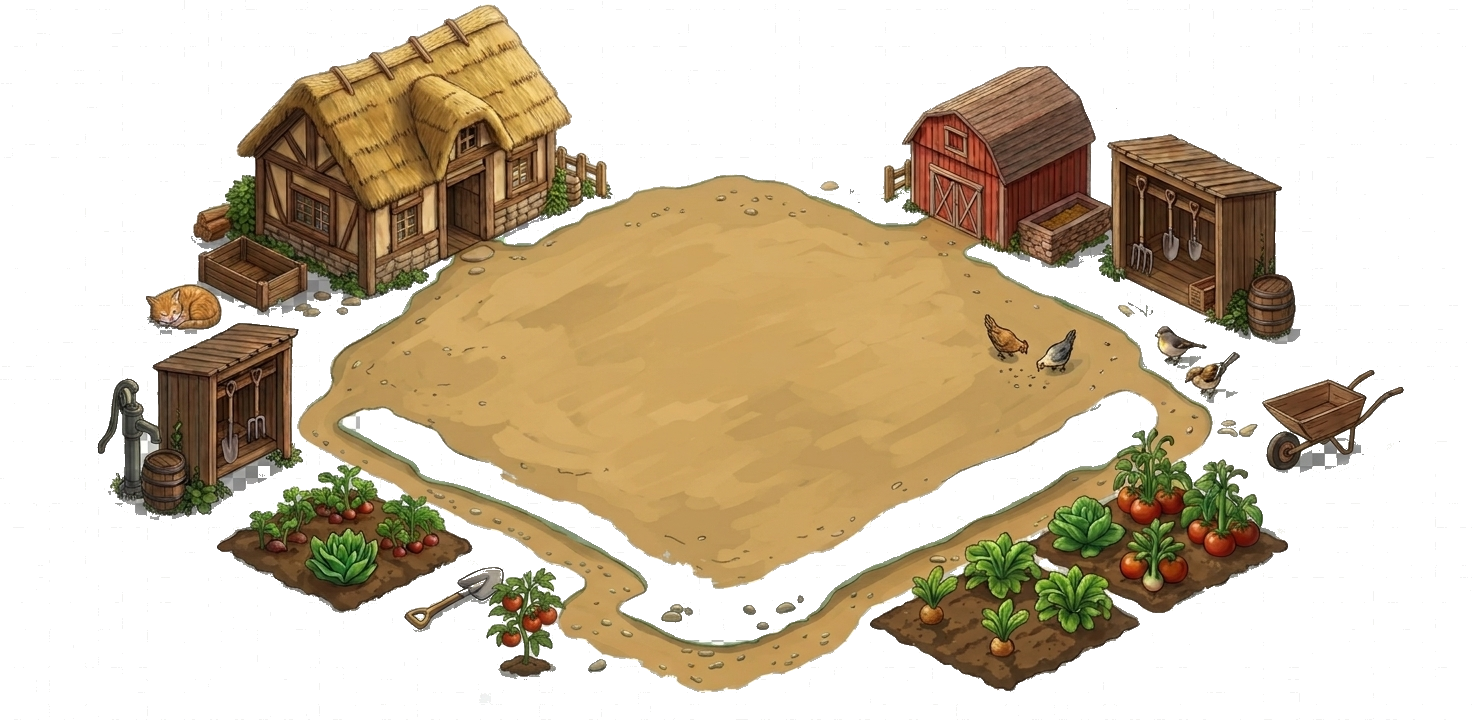
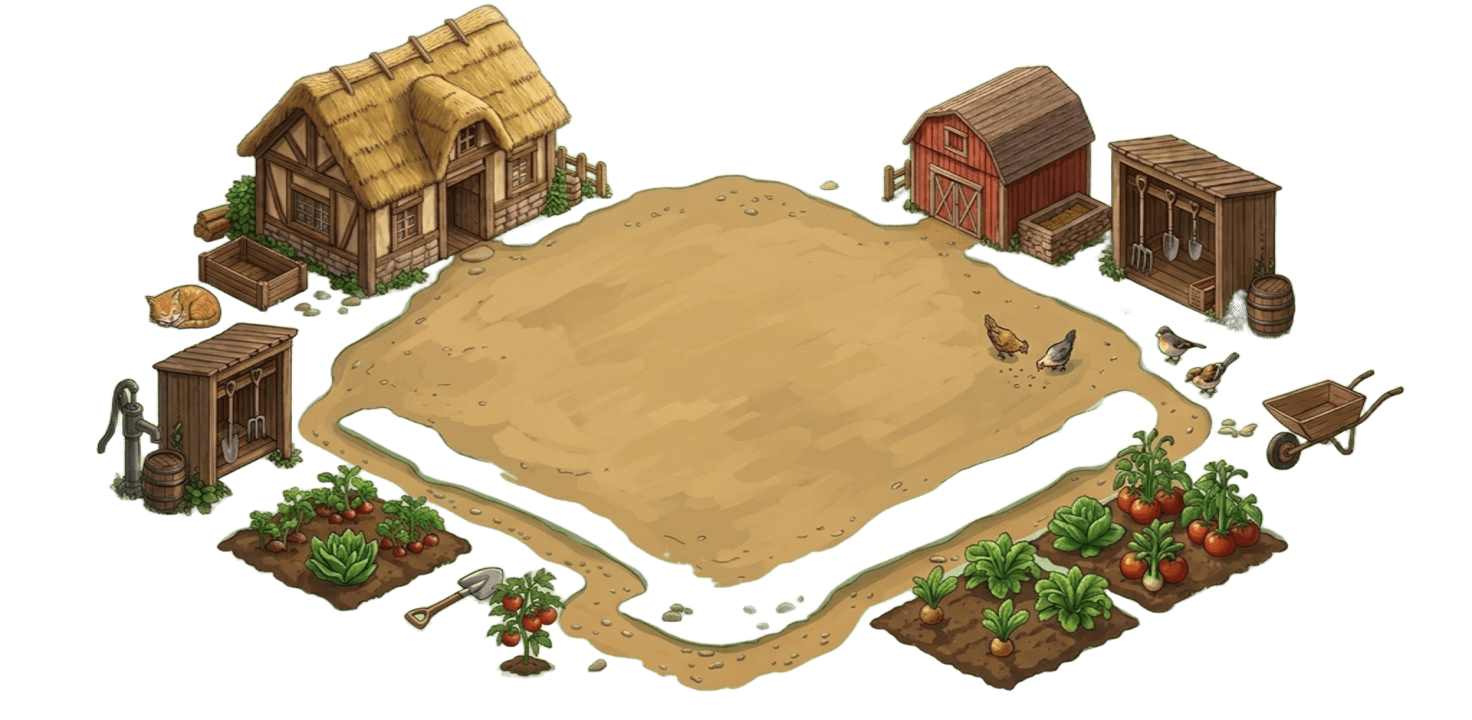
畑の周り画像をきれいな透過版に差し替え、畑を中央配置・拡大、背景色を変更
- 新しい透過 PNG（よりきれいに切り抜かれたもの）に差し替え
- 畑の盤面を砂地の中心に合わせ直し、下へのずれを解消
- 盤面と全体のシーンを拡大（レイアウト比率と高さ上限を調整）
- サイト全体の背景色 --bed を #BAC79D に変更

diff --git a/front-end/src/components/VegetableField.css b/front-end/src/components/VegetableField.css
@@ -37,7 +37,7 @@
 
 .field-scene {
   position: relative;
-  width: min(100%, calc(76vh * 1472 / 720));
+  width: min(100%, calc(80vh * 1472 / 720));
   aspect-ratio: 1472 / 720;
   margin: 0 auto;
   background: url("/VegeTASK_畑の周り.png") center / 100% 100% no-repeat;
@@ -45,9 +45,9 @@
 
 .field-board {
   position: absolute;
-  left: 25.5%;
-  top: 13%;
-  width: 52%;
+  left: 24%;
+  top: 11.5%;
+  width: 53.5%;
   aspect-ratio: 9 / 8;
   background-image: url("/VegeTASK_畑.png");
   background-size: contain;

diff --git a/front-end/src/pages/Home.css b/front-end/src/pages/Home.css
@@ -11,12 +11,12 @@
   gap: clamp(16px, 3vw, 40px);
   align-items: center;
   width: 100%;
-  max-width: 1440px;
+  max-width: 1720px;
   margin: 0 auto;
 }
 
 .home-field-section {
-  flex: 6;
+  flex: 1.75;
   min-width: 0;
   display: flex;
   align-items: center;
@@ -24,7 +24,7 @@
 }
 
 .todo-section {
-  flex: 4;
+  flex: 1;
   min-width: 0;
   height: 64vh;
   display: flex;

diff --git a/front-end/src/index.css b/front-end/src/index.css
@@ -5,7 +5,7 @@
   --leaf: #3e7b2c;
   --leaf-deep: #2f5f21;
   --leaf-wash: #dfe9cf;
-  --bed: #e6ebd8;
+  --bed: #BAC79D;
   --paper: #fcfbf6;
   --rule: #d9dccb;
   --ripe: #e09a1a;
